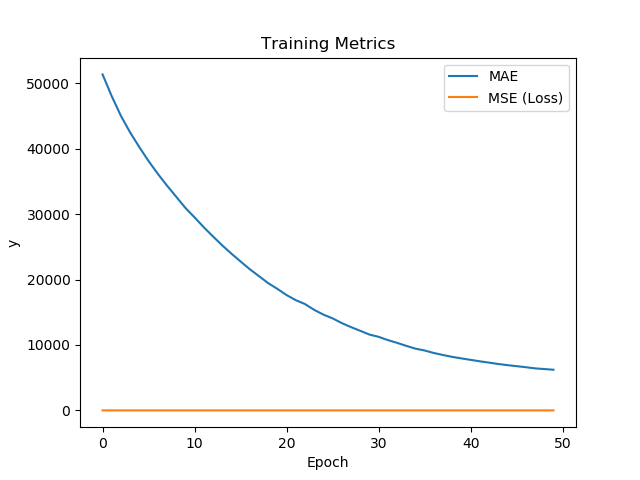
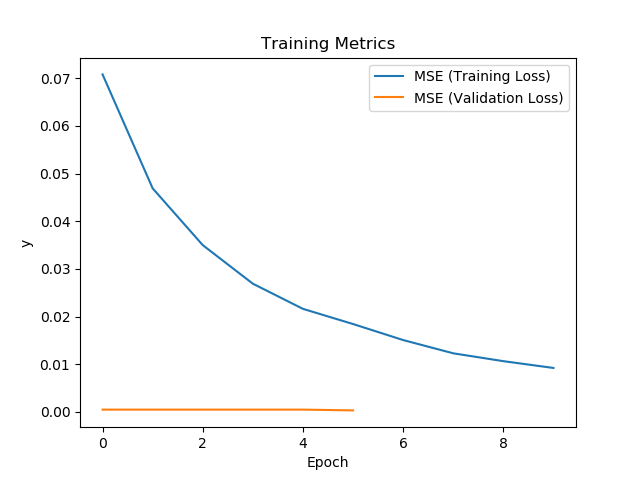
Adds aggregate graph and correctly normalises during dataset creation

diff --git a/model_structure.py b/model_structure.py
@@ -5,13 +5,13 @@ import os
 def create_model():
     input_layer = Input(shape=(599,))
     reshape_layer = Reshape((-1, 599, 1))(input_layer)
-    conv_layer_1 = Convolution2D(filters=30, kernel_size=(10, 1), strides=(1, 1), padding="same", activation="tanh")(reshape_layer)
-    conv_layer_2 = Convolution2D(filters=30, kernel_size=(8, 1), strides=(1, 1), padding="same", activation="tanh")(conv_layer_1)
-    conv_layer_3 = Convolution2D(filters=40, kernel_size=(6, 1), strides=(1, 1), padding="same", activation="tanh")(conv_layer_2)
-    conv_layer_4 = Convolution2D(filters=50, kernel_size=(5, 1), strides=(1, 1), padding="same", activation="tanh")(conv_layer_3)
-    conv_layer_5 = Convolution2D(filters=50, kernel_size=(5, 1), strides=(1, 1), padding="same", activation="tanh")(conv_layer_4)
+    conv_layer_1 = Convolution2D(filters=30, kernel_size=(10, 1), strides=(1, 1), padding="same", activation="relu")(reshape_layer)
+    conv_layer_2 = Convolution2D(filters=30, kernel_size=(8, 1), strides=(1, 1), padding="same", activation="relu")(conv_layer_1)
+    conv_layer_3 = Convolution2D(filters=40, kernel_size=(6, 1), strides=(1, 1), padding="same", activation="relu")(conv_layer_2)
+    conv_layer_4 = Convolution2D(filters=50, kernel_size=(5, 1), strides=(1, 1), padding="same", activation="relu")(conv_layer_3)
+    conv_layer_5 = Convolution2D(filters=50, kernel_size=(5, 1), strides=(1, 1), padding="same", activation="relu")(conv_layer_4)
     flatten_layer = Flatten()(conv_layer_5)
-    label_layer = Dense(1024, activation="tanh")(flatten_layer)
+    label_layer = Dense(1024, activation="relu")(flatten_layer)
     output_layer = Dense(1, activation="linear")(label_layer)
 
     model = Model(inputs=input_layer, outputs=output_layer)

diff --git a/seq2point_test.py b/seq2point_test.py
@@ -37,7 +37,7 @@ def test_model():
     #         print("No testing file was found.")
     #         break
 
-    test_file_name = "./kettle/kettle_test_.csv"
+    test_file_name = "./kettle/kettle_validation_.csv"
 
     offset = int(0.5 * 601 - 1)
 
@@ -63,18 +63,21 @@ def test_model():
     test_time = end_time - start_time
     print("Test Time: ", test_time)
 
-    #testing_history = ((testing_history * kettle_params["std"]) + kettle_params["mean"])
-
-    #test_target = ((test_target * kettle_params["std"]) + kettle_params["mean"])
+    testing_history = ((testing_history * kettle_params["std"]) + kettle_params["mean"])
+    test_target = ((test_target * kettle_params["std"]) + kettle_params["mean"])
+    test_agg = (test_input.flatten() * 814) + 522
+    test_agg = test_agg[:testing_history.size]
 
     # Can't have negative energy readings - set any results below 0 to 0.
     test_target[test_target < 0] = 0
     testing_history[testing_history < 0] = 0
+    test_input[test_input < 0] = 0
 
     # Plot testing outcomes against ground truth.
     plt.figure(1)
-    plt.plot(testing_history, label="Testing")
+    plt.plot(test_agg[offset: -offset], label="Aggregate")
     plt.plot(test_target[0 : testing_history.size], label="Ground Truth")
+    plt.plot(testing_history, label="Testing")
     plt.title('Kettle Preliminary Test Results')
     plt.ylabel('Normalised Prediction')
     plt.xlabel('Testing Window')

diff --git a/seq2point_train.py b/seq2point_train.py
@@ -31,7 +31,7 @@ def train_model():
     # if there's no improvement 2 epochs later.
     model = create_model()
     model.compile(Adam(learning_rate=0.001, beta_1=0.9, beta_2=0.999), loss="mse", metrics=["mse", "msle", "mae"]) 
-    early_stopping = EarlyStopping(monitor="val_loss", min_delta=0.001, patience=1, verbose=2, mode="auto")
+    early_stopping = EarlyStopping(monitor="val_mse", min_delta=0, patience=5, verbose=2, mode="auto")
 
     # Train the model with the generator function and early stopping callback.
     training_history = model.fit_generator(training_chunker.load_dataset(),
@@ -40,12 +40,12 @@ def train_model():
         verbose=2,
         validation_data = validation_chunker.load_dataset(),
         validation_steps=1000,
-        validation_freq=2,
+        validation_freq=5,
         callbacks=[early_stopping])
 
     # Plot the monitored metrics and save.
-    plt.plot(training_history.history['mse'], label="MAE")
-    plt.plot(training_history.history['msle'], label="MSE (Loss)")
+    plt.plot(training_history.history['loss'], label="MSE (Training Loss)")
+    plt.plot(training_history.history["val_loss"], label="MSE (Validation Loss)")
     plt.title('Training Metrics')
     plt.ylabel('y')
     plt.xlabel('Epoch')

diff --git a/dataset_generator.py b/dataset_generator.py
@@ -61,7 +61,7 @@ if __name__ == "__main__":
         
             # Normalise the appliance's test data.
             test_data["aggregate"] = (test_data["aggregate"] - agg_mean) / agg_std
-            test_data[appliance] = test_data[appliance] - kettle_params["mean"] / kettle_params["std"]
+            test_data[appliance] = (test_data[appliance] - kettle_params["mean"]) / kettle_params["std"]
 
             # Save the test data.
             test_data.to_csv("./" + appliance + "/" + appliance + "_test_.csv", index=False)
@@ -81,7 +81,7 @@ if __name__ == "__main__":
             
             # Normalise the validation data.
             validation_data["aggregate"] = (validation_data["aggregate"] - agg_mean) / agg_std
-            validation_data[appliance] = validation_data[appliance] - kettle_params["mean"] / kettle_params["std"]
+            validation_data[appliance] = (validation_data[appliance] - kettle_params["mean"]) / kettle_params["std"]
 
             # Save validation data.
             validation_data.to_csv("./" + appliance + "./" + appliance + "_validation_.csv", index=False)
